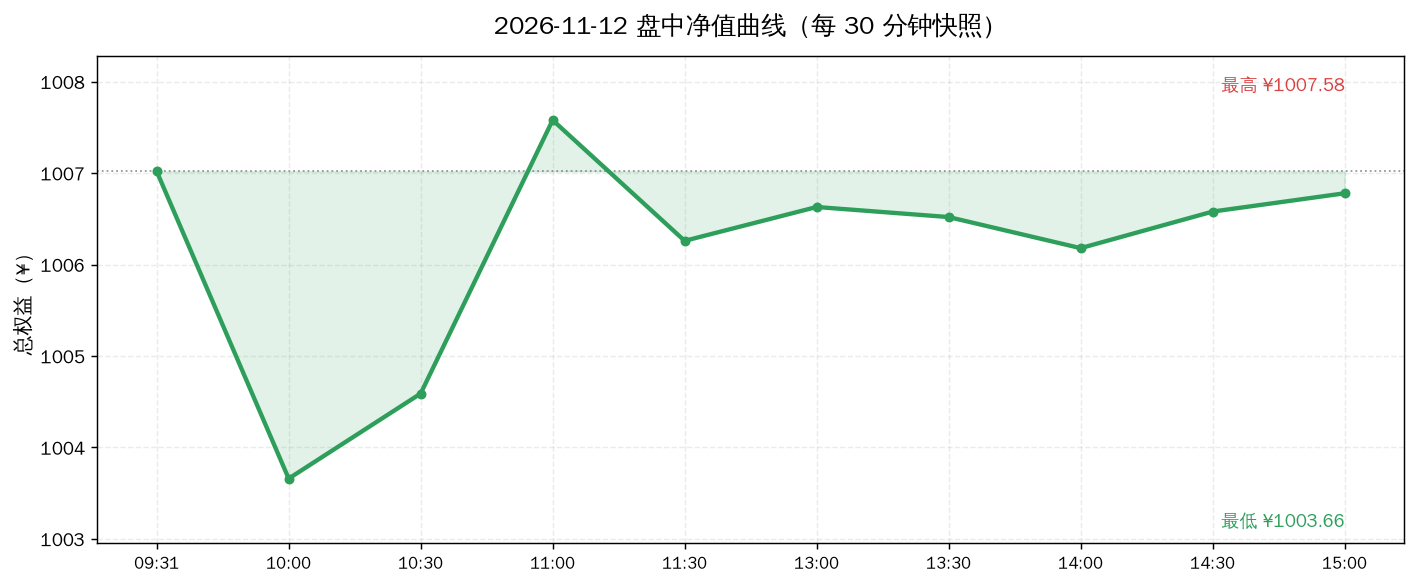
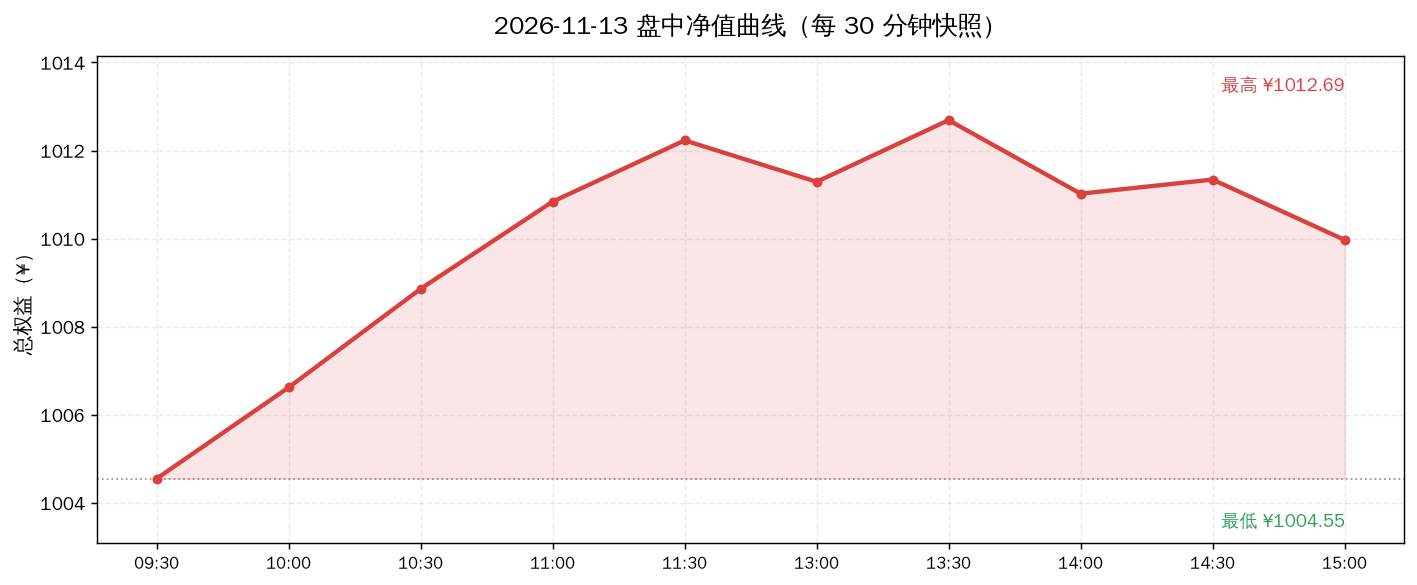
sim: dashboard update 2026-11-13 (equity ¥1009.98, +0.998%)

diff --git a/sim/DASHBOARD.md b/sim/DASHBOARD.md
@@ -1,8 +1,8 @@
 # 📊 模拟盘动态看板
 
-> **自动生成** · 最后更新 **2026-11-12 16:30** · 数据源：腾讯财经公开接口（实时行情）
+> **自动生成** · 最后更新 **2026-11-13 16:30** · 数据源：腾讯财经公开接口（实时行情）
 >
-> 本金 **¥1000.00** · 开仓 **2026-10-28** · 当前总权益 **¥1006.78** · 累计 **+0.678%**
+> 本金 **¥1000.00** · 开仓 **2026-10-28** · 当前总权益 **¥1009.98** · 累计 **+0.998%**
 >
 > ⚠ **纯模拟盘学习实验，不构成投资建议。**
 >
@@ -12,9 +12,9 @@
 
 ## 🎯 30 秒版本
 
-1. 从 2026-10-28 开仓到今天，账户从 ¥1000 变成 **¥1006.78**，赚了 **¥6.78（+0.678%）**。
-2. 今天单日 **-0.47%**，下跌 **¥4.74**。
-3. 同期大盘：**上证指数 -0.70%** 最强，**创业板指 -4.76%** 最弱 —— 本组合跑赢同期最强基准 +1.37 个百分点。
+1. 从 2026-10-28 开仓到今天，账户从 ¥1000 变成 **¥1009.98**，赚了 **¥9.98（+0.998%）**。
+2. 今天单日 **+0.32%**，上涨 **¥3.20**。
+3. 同期大盘：**上证指数 -1.28%** 最强，**创业板指 -7.92%** 最弱 —— 本组合跑赢同期最强基准 +2.28 个百分点。
 
 ## 📈 盈亏曲线
 
@@ -34,7 +34,7 @@
 
 ![盘中曲线](assets/intraday.png)
 
-**怎么读**：2026-11-12 当天每 30 分钟记录一次的账户总值。灰色虚线是当天开盘起点，曲线在虚线上方就是当天浮盈。A 股中午 11:30–13:00 休市，所以那段是平的。
+**怎么读**：2026-11-13 当天每 30 分钟记录一次的账户总值。灰色虚线是当天开盘起点，曲线在虚线上方就是当天浮盈。A 股中午 11:30–13:00 休市，所以那段是平的。
 
 ### 💵 每日盈亏明细图
 
@@ -50,21 +50,21 @@
 
 | 指标 | 数值 | 人话解读 |
 |---|---|---|
-| 总权益 | **¥1006.78** | 现在全部卖掉能拿回多少钱（持仓市值 + 现金） |
-| 持仓市值 | ¥732.90（72.8%） | 买成 ETF 的部分 |
-| 现金 | ¥273.88（27.2%） | 留着没买的钱，按货基利率计息 |
-| 累计盈亏 | **¥+6.78（+0.678%）** | 相对 ¥1000 本金 |
-| 今日盈亏 | **-0.47%** | 今天一天的变化 |
+| 总权益 | **¥1009.98** | 现在全部卖掉能拿回多少钱（持仓市值 + 现金） |
+| 持仓市值 | ¥736.09（72.9%） | 买成 ETF 的部分 |
+| 现金 | ¥273.89（27.1%） | 留着没买的钱，按货基利率计息 |
+| 累计盈亏 | **¥+9.98（+0.998%）** | 相对 ¥1000 本金 |
+| 今日盈亏 | **+0.32%** | 今天一天的变化 |
 | 历史最高 | ¥1020.47 | 账户到过的最高点 |
-| 当前回撤 | -1.342% | 离最高点还差多少（负数=没回到最高点） |
+| 当前回撤 | -1.028% | 离最高点还差多少（负数=没回到最高点） |
 
 ### 持仓明细
 
 | 标的 | 代码 | 持股 | 成本价 | 现价 | 今日 | 市值 | 浮动盈亏 | 人话解读 |
 |---|---|---|---|---|---|---|---|---|
-| 红利低波100ETF景顺 | 515100 | 450 | ¥1.431 | ¥1.449 | 🔻-0.41% | ¥652.05 | **+8.10（+1.26%）** | 赚钱了 |
-| 黄金ETF华安 | 518880 | 10 | ¥8.226 | ¥8.085 | 🔻-2.46% | ¥80.85 | **-1.41（-1.71%）** | 还亏着 |
-| 现金 | — | — | — | — | — | ¥273.88 | — | 货基计息，年化 0.84% |
+| 红利低波100ETF景顺 | 515100 | 450 | ¥1.431 | ¥1.459 | 🔺+0.69% | ¥656.55 | **+12.60（+1.96%）** | 赚钱了 |
+| 黄金ETF华安 | 518880 | 10 | ¥8.226 | ¥7.954 | 🔻-1.62% | ¥79.54 | **-2.72（-3.31%）** | 还亏着 |
+| 现金 | — | — | — | — | — | ¥273.89 | — | 货基计息，年化 0.84% |
 
 ---
 
@@ -110,33 +110,41 @@
 
 | 资产 | 目标占比 | 实际占比 | 偏离 | 判定 |
 |---|---|---|---|---|
-| 红利低波100ETF景顺 | 65% | 64.8% | -0.2pp | 🟢 正常，不动 |
-| 黄金ETF华安 | 8% | 8.0% | +0.0pp | 🟢 正常，不动 |
-| 现金（货基） | 27% | 27.2% | +0.2pp | 🟢 正常，不动 |
+| 红利低波100ETF景顺 | 65% | 65.0% | +0.0pp | 🟢 正常，不动 |
+| 黄金ETF华安 | 8% | 7.9% | -0.1pp | 🟢 正常，不动 |
+| 现金（货基） | 27% | 27.1% | +0.1pp | 🟢 正常，不动 |
 
 #### ② 补仓条件检查（规则：跌到成本价 -8% 触发补仓，每只最多 2 次）
 
 | 标的 | 成本价 | 现价 | 距成本 | 已补仓 | 判定 |
 |---|---|---|---|---|---|
-| 红利低波100ETF景顺 | ¥1.431 | ¥1.449 | +1.26% | 0/2 | 🟢 未触发（还差 9.3pp 才到 -8%） |
-| 黄金ETF华安 | ¥8.226 | ¥8.085 | -1.71% | 0/2 | 🟢 未触发（还差 6.3pp 才到 -8%） |
+| 红利低波100ETF景顺 | ¥1.431 | ¥1.459 | +1.96% | 0/2 | 🟢 未触发（还差 10.0pp 才到 -8%） |
+| 黄金ETF华安 | ¥8.226 | ¥7.954 | -3.31% | 0/2 | 🟢 未触发（还差 4.7pp 才到 -8%） |
 
 #### ③ 回撤检查（规则：账户从最高点回撤 -5% 只记录、不割肉）
 
 | 指标 | 数值 |
 |---|---|
 | 历史最高净值 | ¥1020.47（2026-11-09） |
-| 当前净值 | ¥1006.78（2026-11-12） |
-| 回撤幅度 | **-1.342%** |
+| 当前净值 | ¥1009.98（2026-11-13） |
+| 回撤幅度 | **-1.028%** |
 | 触发阈值 | -5% |
 
-> 🟢 **未触发**：距阈值还有 3.66pp 缓冲。即使触发，纪律也是记录而非卖出。
+> 🟢 **未触发**：距阈值还有 3.97pp 缓冲。即使触发，纪律也是记录而非卖出。
 
 #### ④ 今日结论
 
 > ⏸ **账户已冻结，不执行任何交易。** 以上检查仅作记录用途——共扫描 6 项纪律，触发 **0** 项。冻结状态下即使触发也不动手（用户决定不投 A 股）。
 
 ### 四、每日决策记录（当时怎么判断的）
+
+#### 📅 2026-11-13 · 权益 ¥1009.98（累计 +0.998%）
+
+- 总权益 **¥1009.98**（当日 +0.32% / 累计 +0.998%）
+- 红利低波100ETF景顺 1.459 (+0.69%)
+- 黄金ETF华安 7.954 (-1.62%)
+- 现金 ¥273.89
+- 📝 自动收盘估值（看板 cron）
 
 #### 📅 2026-11-12 · 权益 ¥1006.78（累计 +0.678%）
 
@@ -241,9 +249,9 @@
 
 | 指数 | 同期涨跌 | 本组合超额 | 人话解读 |
 |---|---|---|---|
-| 沪深300 | -0.98% | **+1.66pp** | 跑赢 1.66 个百分点 |
-| 创业板指 | -4.76% | **+5.43pp** | 跑赢 5.43 个百分点 |
-| 上证指数 | -0.70% | **+1.37pp** | 跑赢 1.37 个百分点 |
+| 沪深300 | -1.65% | **+2.65pp** | 跑赢 2.65 个百分点 |
+| 创业板指 | -7.92% | **+8.92pp** | 跑赢 8.92 个百分点 |
+| 上证指数 | -1.28% | **+2.28pp** | 跑赢 2.28 个百分点 |
 
 > 注：`pp` = percentage point（百分点），是两个百分比相减的单位。「+2.5pp」意思是「比它高 2.5 个百分点」，不是「高 2.5%」。
 
@@ -263,6 +271,7 @@
 | 2026-11-10 | ¥1018.45 | ¥744.58 | ¥273.87 | +1.845% |
 | 2026-11-11 | ¥1011.52 | ¥737.64 | ¥273.88 | +1.152% |
 | 2026-11-12 | ¥1006.78 | ¥732.90 | ¥273.88 | +0.678% |
+| 2026-11-13 | ¥1009.98 | ¥736.09 | ¥273.89 | +0.998% |
 
 ---
 
@@ -275,4 +284,4 @@
 
 ---
 
-_本页由 `dashboard.py` 自动生成于 2026-11-12 16:30:22，每个交易日收盘后刷新。_
+_本页由 `dashboard.py` 自动生成于 2026-11-13 16:30:45，每个交易日收盘后刷新。_
